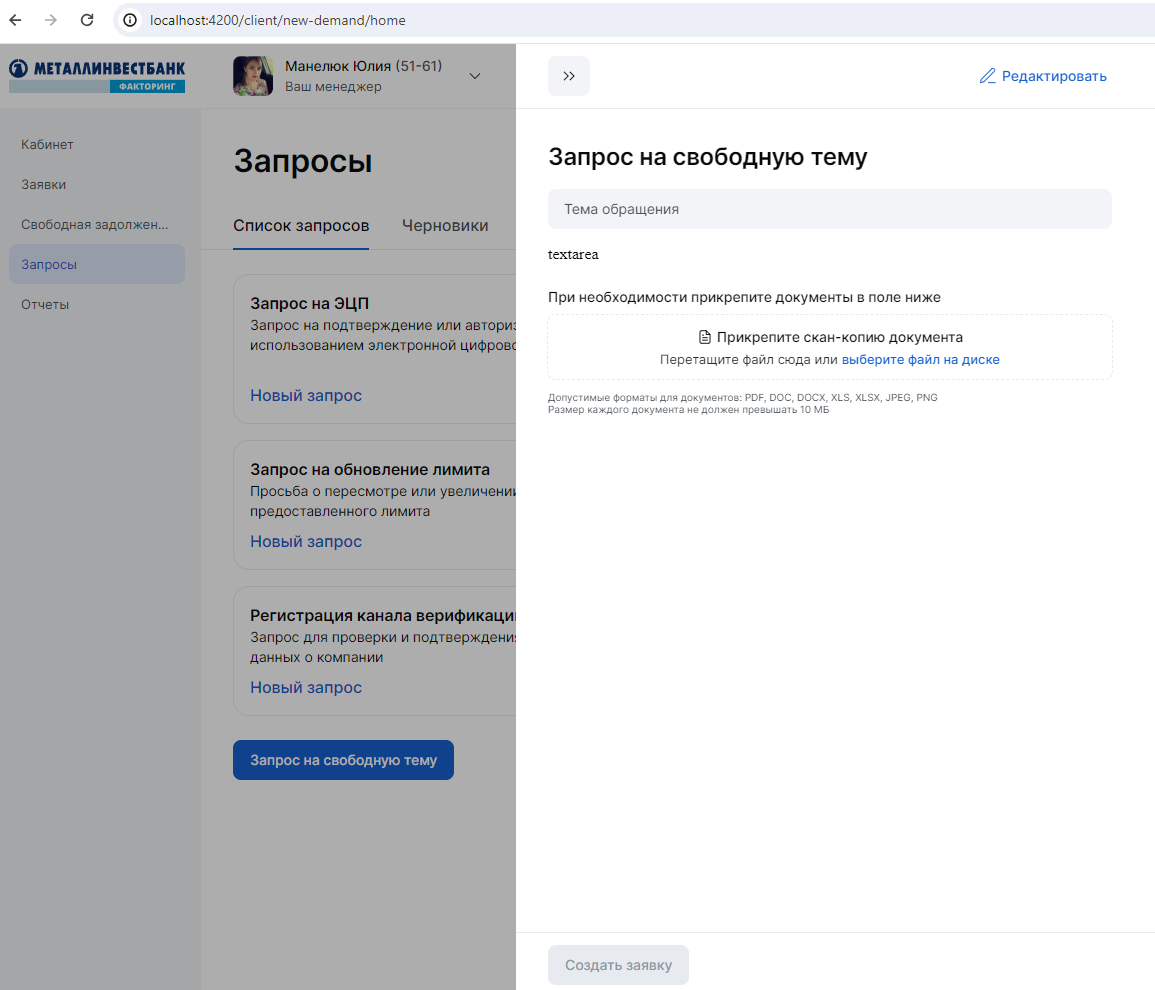
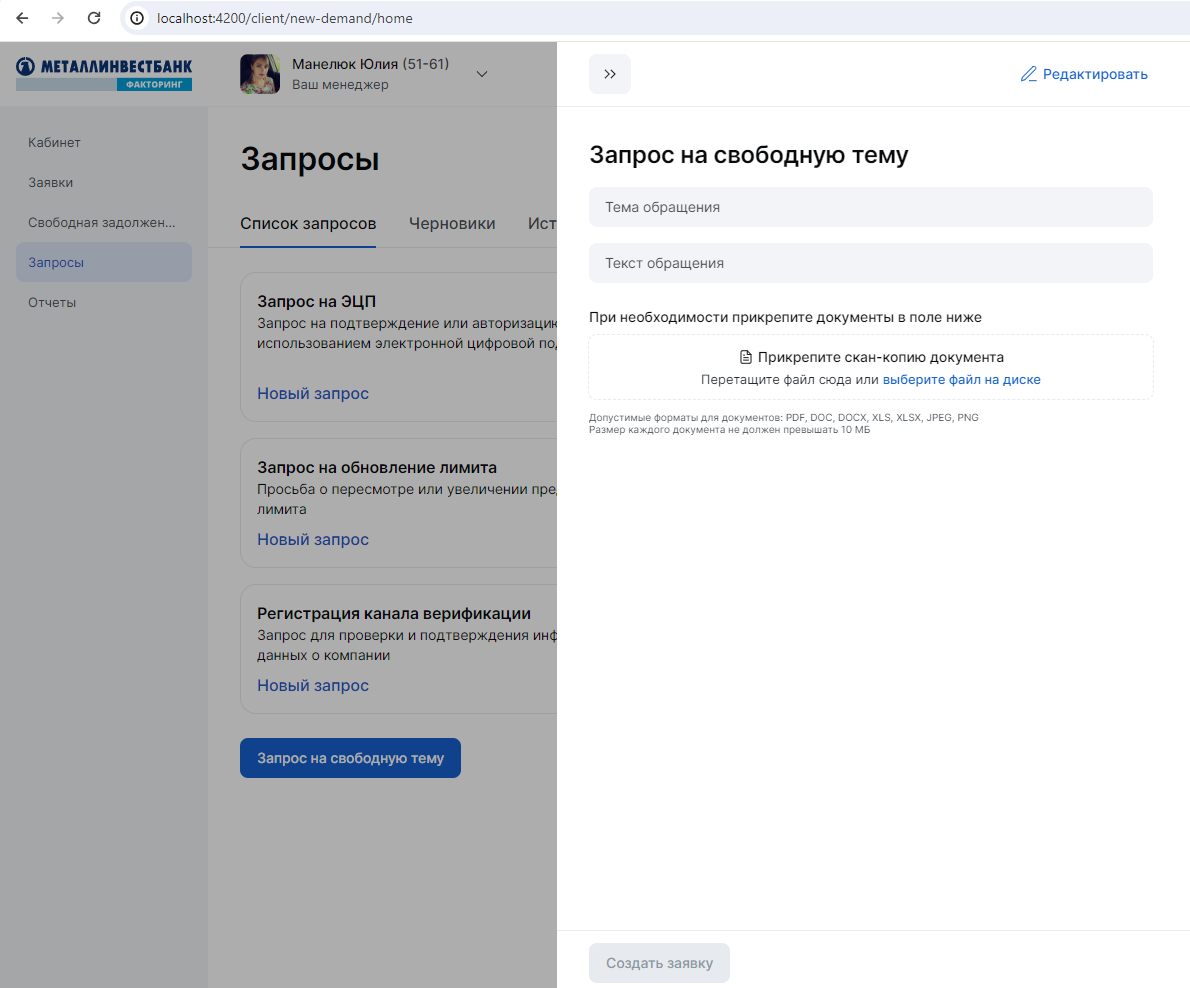
update: add input/drawer.comp

diff --git a/src/app/client/modules/demand-new/modules/demand-drawer/demand-drawer.component.html b/src/app/client/modules/demand-new/modules/demand-drawer/demand-drawer.component.html
@@ -12,7 +12,11 @@
 		<input mibInput />
 	</mib-input>
 	<mib-spacing type="xs"></mib-spacing>
-	<p>textarea</p>
+	<mib-input>
+		<ng-container input-label>Текст обращения</ng-container>
+		<ng-container input-label></ng-container>
+		<input mibInput />
+	</mib-input>
 	<mib-spacing type="s"></mib-spacing>
 	<p class="text text_m text_medium">
 		При необходимости прикрепите документы в поле ниже
